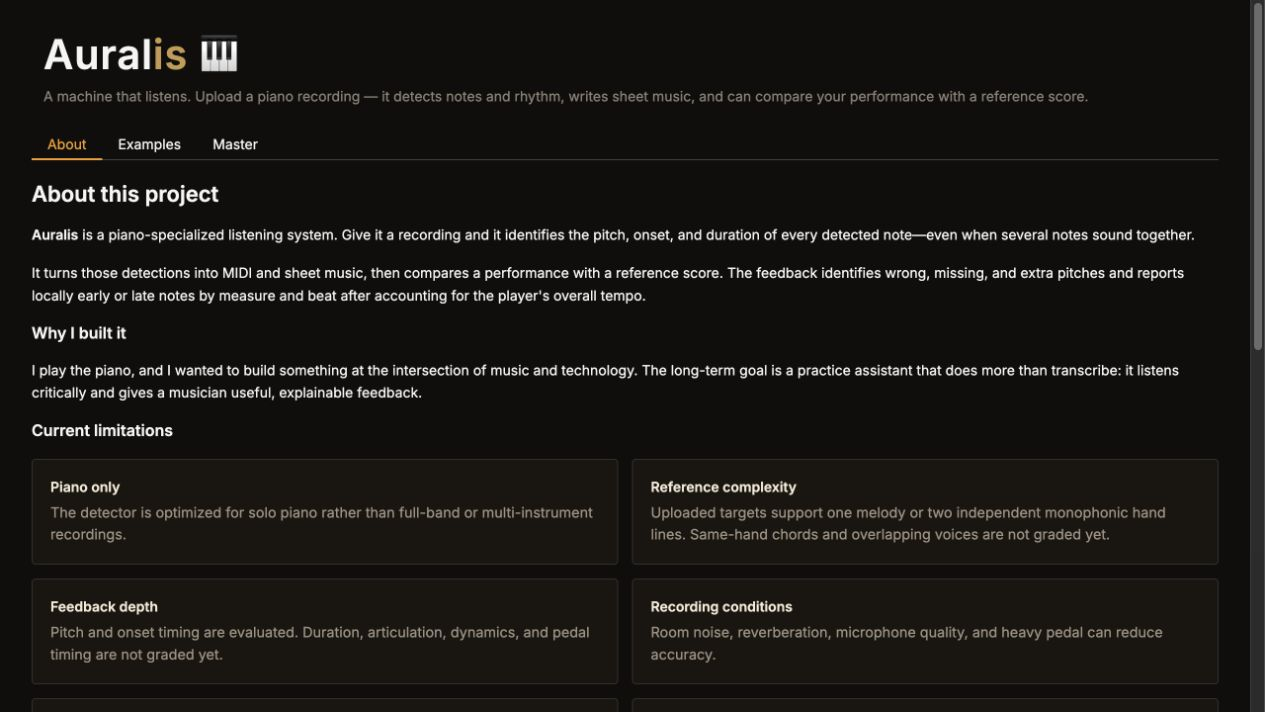
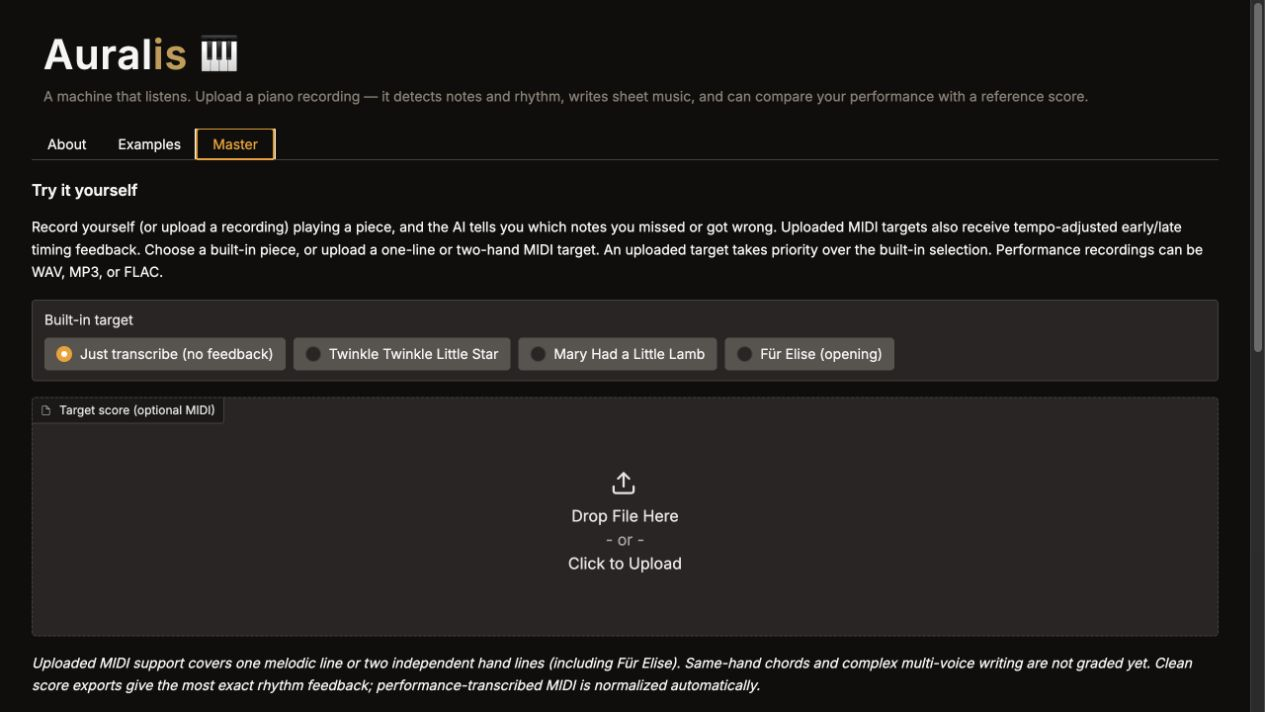
Show Auralis Master workspace

Changed region(s): [[0.0, 0.1854, 0.9866, 0.9888]]

diff --git a/projects/auralis.html b/projects/auralis.html
@@ -54,8 +54,8 @@
 
             <figure class="project-screenshot">
               <img src="../images/auralis-website.jpg"
-                   alt="The current Auralis website showing its About page and project capabilities" />
-              <figcaption>The current Auralis interface.</figcaption>
+                   alt="The Auralis Master workspace for piano transcription and performance feedback" />
+              <figcaption>The Auralis Master workspace for transcription and performance feedback.</figcaption>
             </figure>
 
             <section class="project-section">

diff --git a/index.html b/index.html
@@ -204,7 +204,7 @@
         <div class="card card--project">
           <a class="card__media" href="projects/auralis.html" aria-label="Explore the Auralis project">
             <img src="images/auralis-website.jpg"
-                 alt="The current Auralis piano transcription and practice website"
+                 alt="The Auralis Master workspace for piano transcription and performance feedback"
                  loading="lazy" />
           </a>
           <h3>Auralis</h3>
